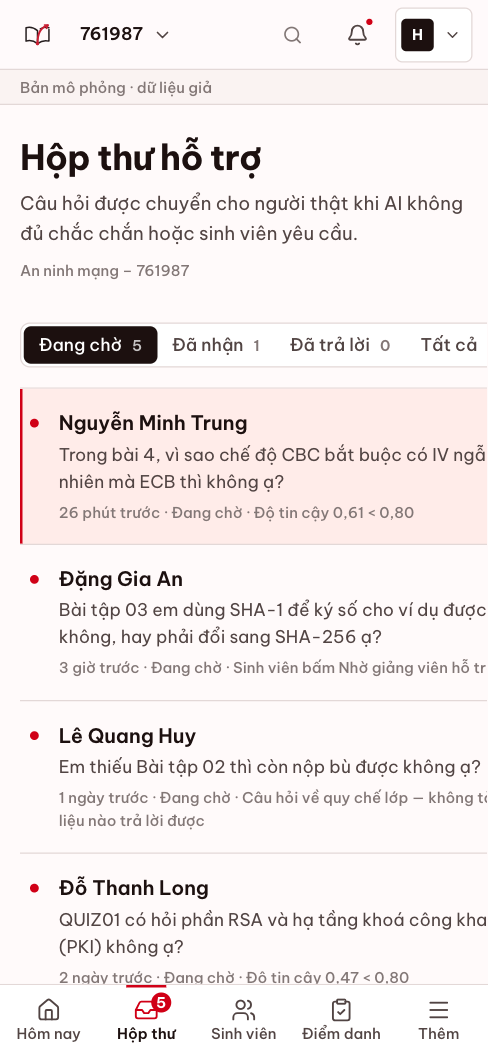
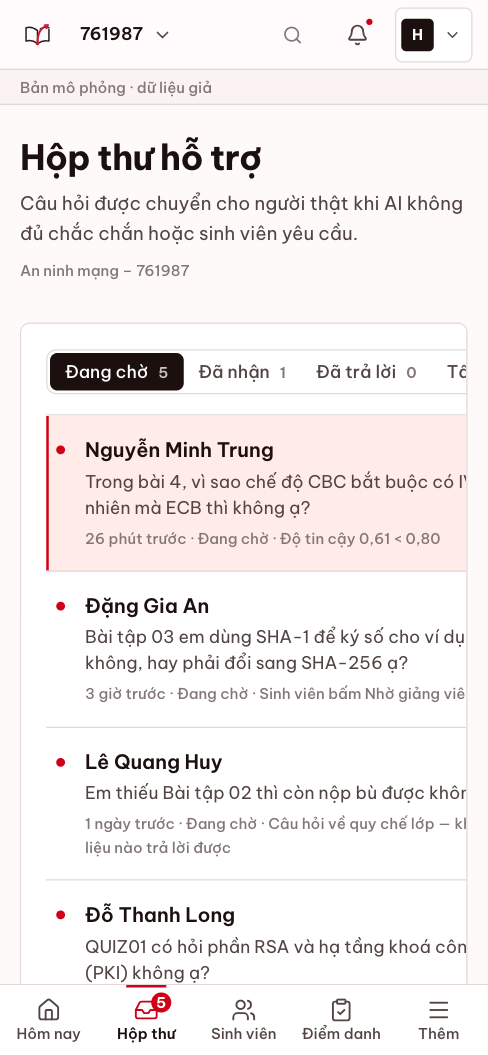
US-PROTO-02: phân định 2 panel độc lập cho hộp thư hỗ trợ /inbox (spec v4)

diff --git a/frontend/src/features/inbox/InboxView.module.css b/frontend/src/features/inbox/InboxView.module.css
@@ -1,34 +1,65 @@
-/* Màn chia đôi: danh sách 380px + chi tiết co giãn (DESIGN §14.5); dưới 1100px thành danh sách → chi tiết. */
+/* Màn chia đôi 2 panel độc lập (DESIGN §14.5, FR-X11, Proposal #16) */
 .split {
   display: grid;
   grid-template-columns: 380px minmax(0, 1fr);
-  gap: var(--ep-space-8);
+  gap: var(--ep-space-6);
   align-items: start;
 }
+
 .list {
   display: grid;
   gap: var(--ep-space-4);
   min-width: 0;
+  background: var(--ep-surface);
+  border: 1px solid var(--ep-rule);
+  border-radius: var(--ep-radius-md);
+  padding: var(--ep-space-5);
+  max-height: calc(100vh - var(--ep-topbar) - 130px);
+  overflow-y: auto;
 }
+
 .detail {
   min-width: 0;
-  padding-left: var(--ep-space-8);
-  border-left: 1px solid var(--ep-rule);
+  background: var(--ep-surface);
+  border: 1px solid var(--ep-rule);
+  border-radius: var(--ep-radius-md);
+  padding: var(--ep-space-6);
+  display: grid;
+  gap: var(--ep-space-6);
+  max-height: calc(100vh - var(--ep-topbar) - 130px);
+  overflow-y: auto;
 }
+
 .back {
   display: none;
 }
 
+.questionBox {
+  padding: var(--ep-space-4);
+  background: var(--ep-surface-subtle);
+  border-radius: var(--ep-radius-sm);
+  border-left: 2px solid var(--ep-rule);
+  font-size: var(--ep-text-item);
+  line-height: 1.6;
+}
+
 .question {
+  margin: 0;
   font-size: var(--ep-text-item);
   line-height: 1.55;
   max-width: 68ch;
 }
+
 .answer {
+  margin: 0;
   max-width: 68ch;
-  padding-left: var(--ep-space-4);
-  border-left: 2px solid var(--ep-rule);
+  padding: var(--ep-space-3) var(--ep-space-4);
+  background: var(--ep-surface-subtle);
+  border-radius: var(--ep-radius-sm);
+  border-left: 2px solid var(--ep-green);
+  line-height: 1.6;
 }
+
 .claimRow {
   display: flex;
   align-items: center;
@@ -41,16 +72,19 @@
     grid-template-columns: 1fr;
     gap: 0;
   }
+  .list {
+    max-height: none;
+  }
   .detail {
     display: none;
-    padding-left: 0;
-    border-left: 0;
+    max-height: none;
   }
   .showDetail .list {
     display: none;
   }
   .showDetail .detail {
     display: block;
+    max-height: none;
   }
   .back {
     display: inline-flex;
